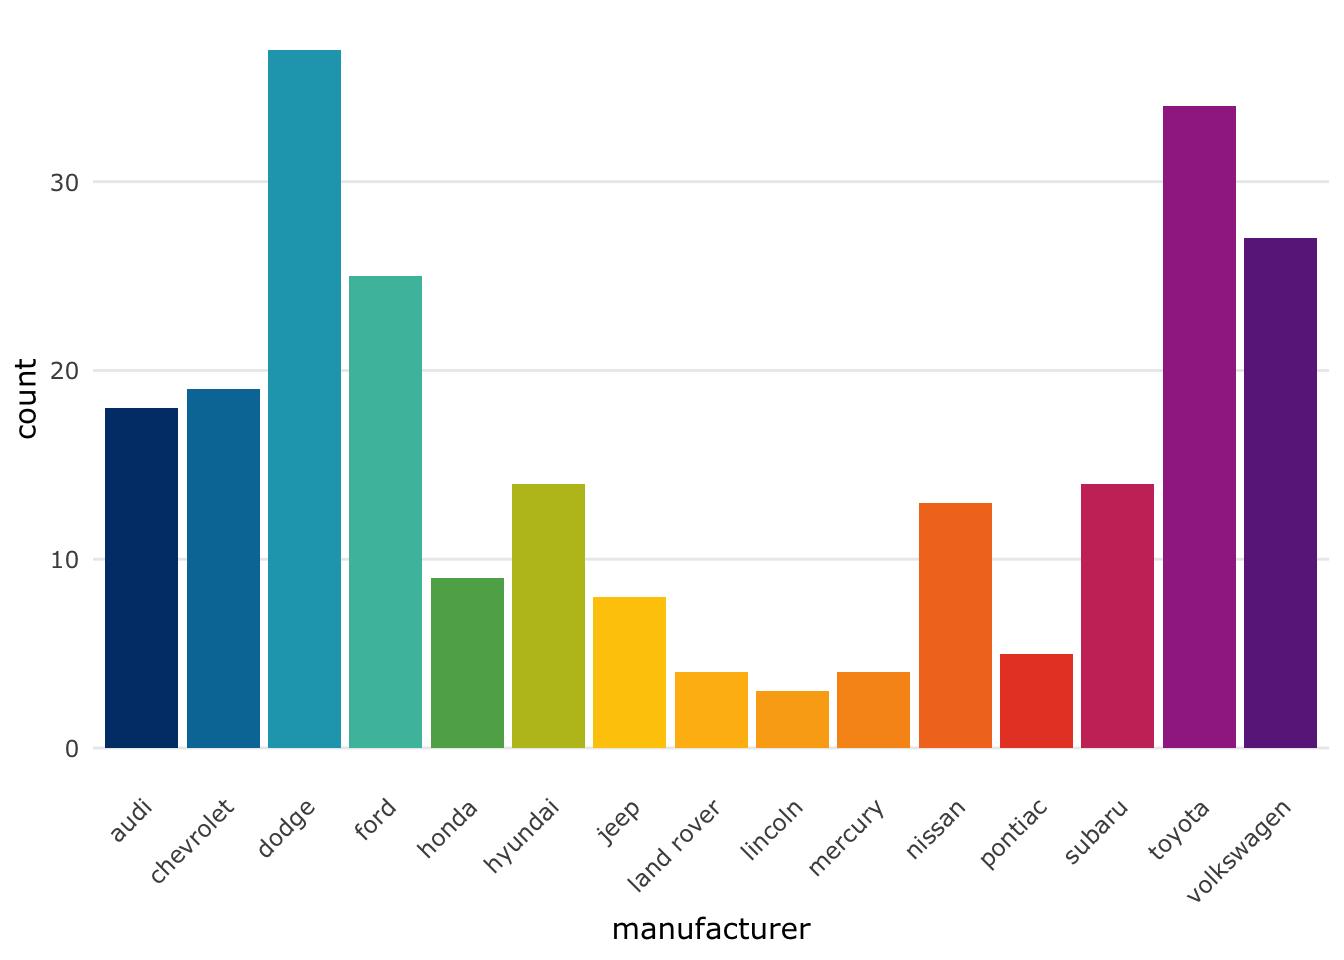
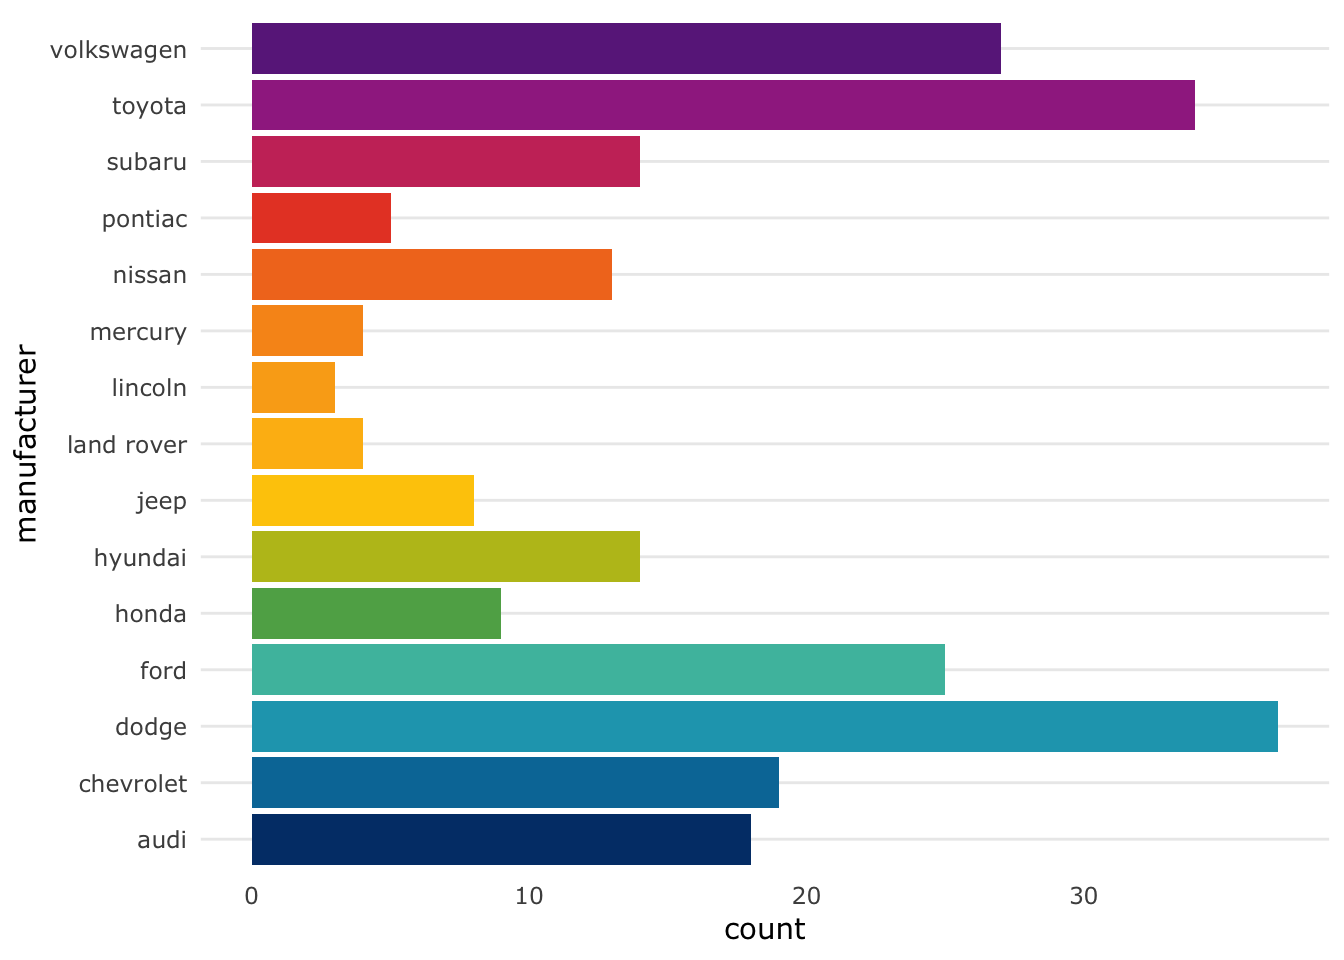
Update vignette example rotate axis in last two examples

diff --git a/docs/articles/theme.usq.html b/docs/articles/theme.usq.html
@@ -327,7 +327,7 @@
 <h4 class="hasAnchor">
 <a href="#using-ggplot2-and-theme_usq-4" class="anchor"></a>Using <em>ggplot2</em> and <code><a href="../reference/theme_usq.html">theme_usq()</a></code>
 </h4>
-<p>Plot the areas in thousands of square miles of landmasses which exceed 10,000 sqm.</p>
+<p>Plot the areas in thousands of square miles of landmasses which exceed 10,000 sqm. Note the use of <code>coord_flip()</code> to rotate the axis so that the x-axis labels do not need to be rotated.</p>
 <div class="sourceCode" id="cb17"><pre class="sourceCode r"><code class="sourceCode r"><a class="sourceLine" id="cb17-1" title="1"><span class="kw"><a href="https://www.rdocumentation.org/packages/base/topics/library">library</a></span>(tibble)</a>
 <a class="sourceLine" id="cb17-2" title="2">islands_df &lt;-<span class="st"> </span><span class="kw"><a href="https://www.rdocumentation.org/packages/base/topics/as.data.frame">as.data.frame</a></span>(islands)</a>
 <a class="sourceLine" id="cb17-3" title="3">islands_df &lt;-<span class="st"> </span><span class="kw"><a href="https://tibble.tidyverse.org/reference/rownames.html">rownames_to_column</a></span>(islands_df, <span class="st">"name"</span>)</a>
@@ -337,14 +337,14 @@
 <a class="sourceLine" id="cb17-7" title="7">           <span class="dt">colour =</span> <span class="kw"><a href="../reference/usq_cols.html">usq_cols</a></span>(<span class="st">"cool gray"</span>),</a>
 <a class="sourceLine" id="cb17-8" title="8">           <span class="dt">fill =</span> <span class="kw"><a href="../reference/usq_cols.html">usq_cols</a></span>(<span class="st">"cool gray"</span>)) <span class="op">+</span></a>
 <a class="sourceLine" id="cb17-9" title="9"><span class="st">  </span><span class="kw"><a href="../reference/theme_usq.html">theme_usq</a></span>() <span class="op">+</span></a>
-<a class="sourceLine" id="cb17-10" title="10"><span class="st">  </span><span class="kw">theme</span>(<span class="dt">axis.text.x =</span> <span class="kw">element_text</span>(<span class="dt">angle =</span> <span class="dv">45</span>, <span class="dt">hjust =</span> <span class="dv">1</span>))</a></code></pre></div>
+<a class="sourceLine" id="cb17-10" title="10"><span class="st">  </span><span class="kw">coord_flip</span>()</a></code></pre></div>
 <p><img src="theme.usq_files/figure-html/example_7.2-1.png" width="672" style="display: block; margin: auto;"></p>
 <p>Plot the number of cars from each manufacturer in the <code>mpg()</code> dataset.</p>
 <div class="sourceCode" id="cb18"><pre class="sourceCode r"><code class="sourceCode r"><a class="sourceLine" id="cb18-1" title="1"><span class="kw">ggplot</span>(mpg, <span class="kw">aes</span>(manufacturer, <span class="dt">fill =</span> manufacturer)) <span class="op">+</span></a>
 <a class="sourceLine" id="cb18-2" title="2"><span class="st">  </span><span class="kw">geom_bar</span>() <span class="op">+</span></a>
 <a class="sourceLine" id="cb18-3" title="3"><span class="st">  </span><span class="kw"><a href="../reference/scale_fill_usq.html">scale_fill_usq</a></span>(<span class="dt">palette =</span> <span class="st">"bright"</span>, <span class="dt">guide =</span> <span class="st">"none"</span>) <span class="op">+</span></a>
 <a class="sourceLine" id="cb18-4" title="4"><span class="st">  </span><span class="kw"><a href="../reference/theme_usq.html">theme_usq</a></span>() <span class="op">+</span></a>
-<a class="sourceLine" id="cb18-5" title="5"><span class="st">  </span><span class="kw">theme</span>(<span class="dt">axis.text.x =</span> <span class="kw">element_text</span>(<span class="dt">angle =</span> <span class="dv">45</span>, <span class="dt">hjust =</span> <span class="dv">1</span>))</a></code></pre></div>
+<a class="sourceLine" id="cb18-5" title="5"><span class="st">  </span><span class="kw">coord_flip</span>()</a></code></pre></div>
 <p><img src="theme.usq_files/figure-html/example-bright-1.png" width="672" style="display: block; margin: auto;"></p>
 </div>
 </div>
